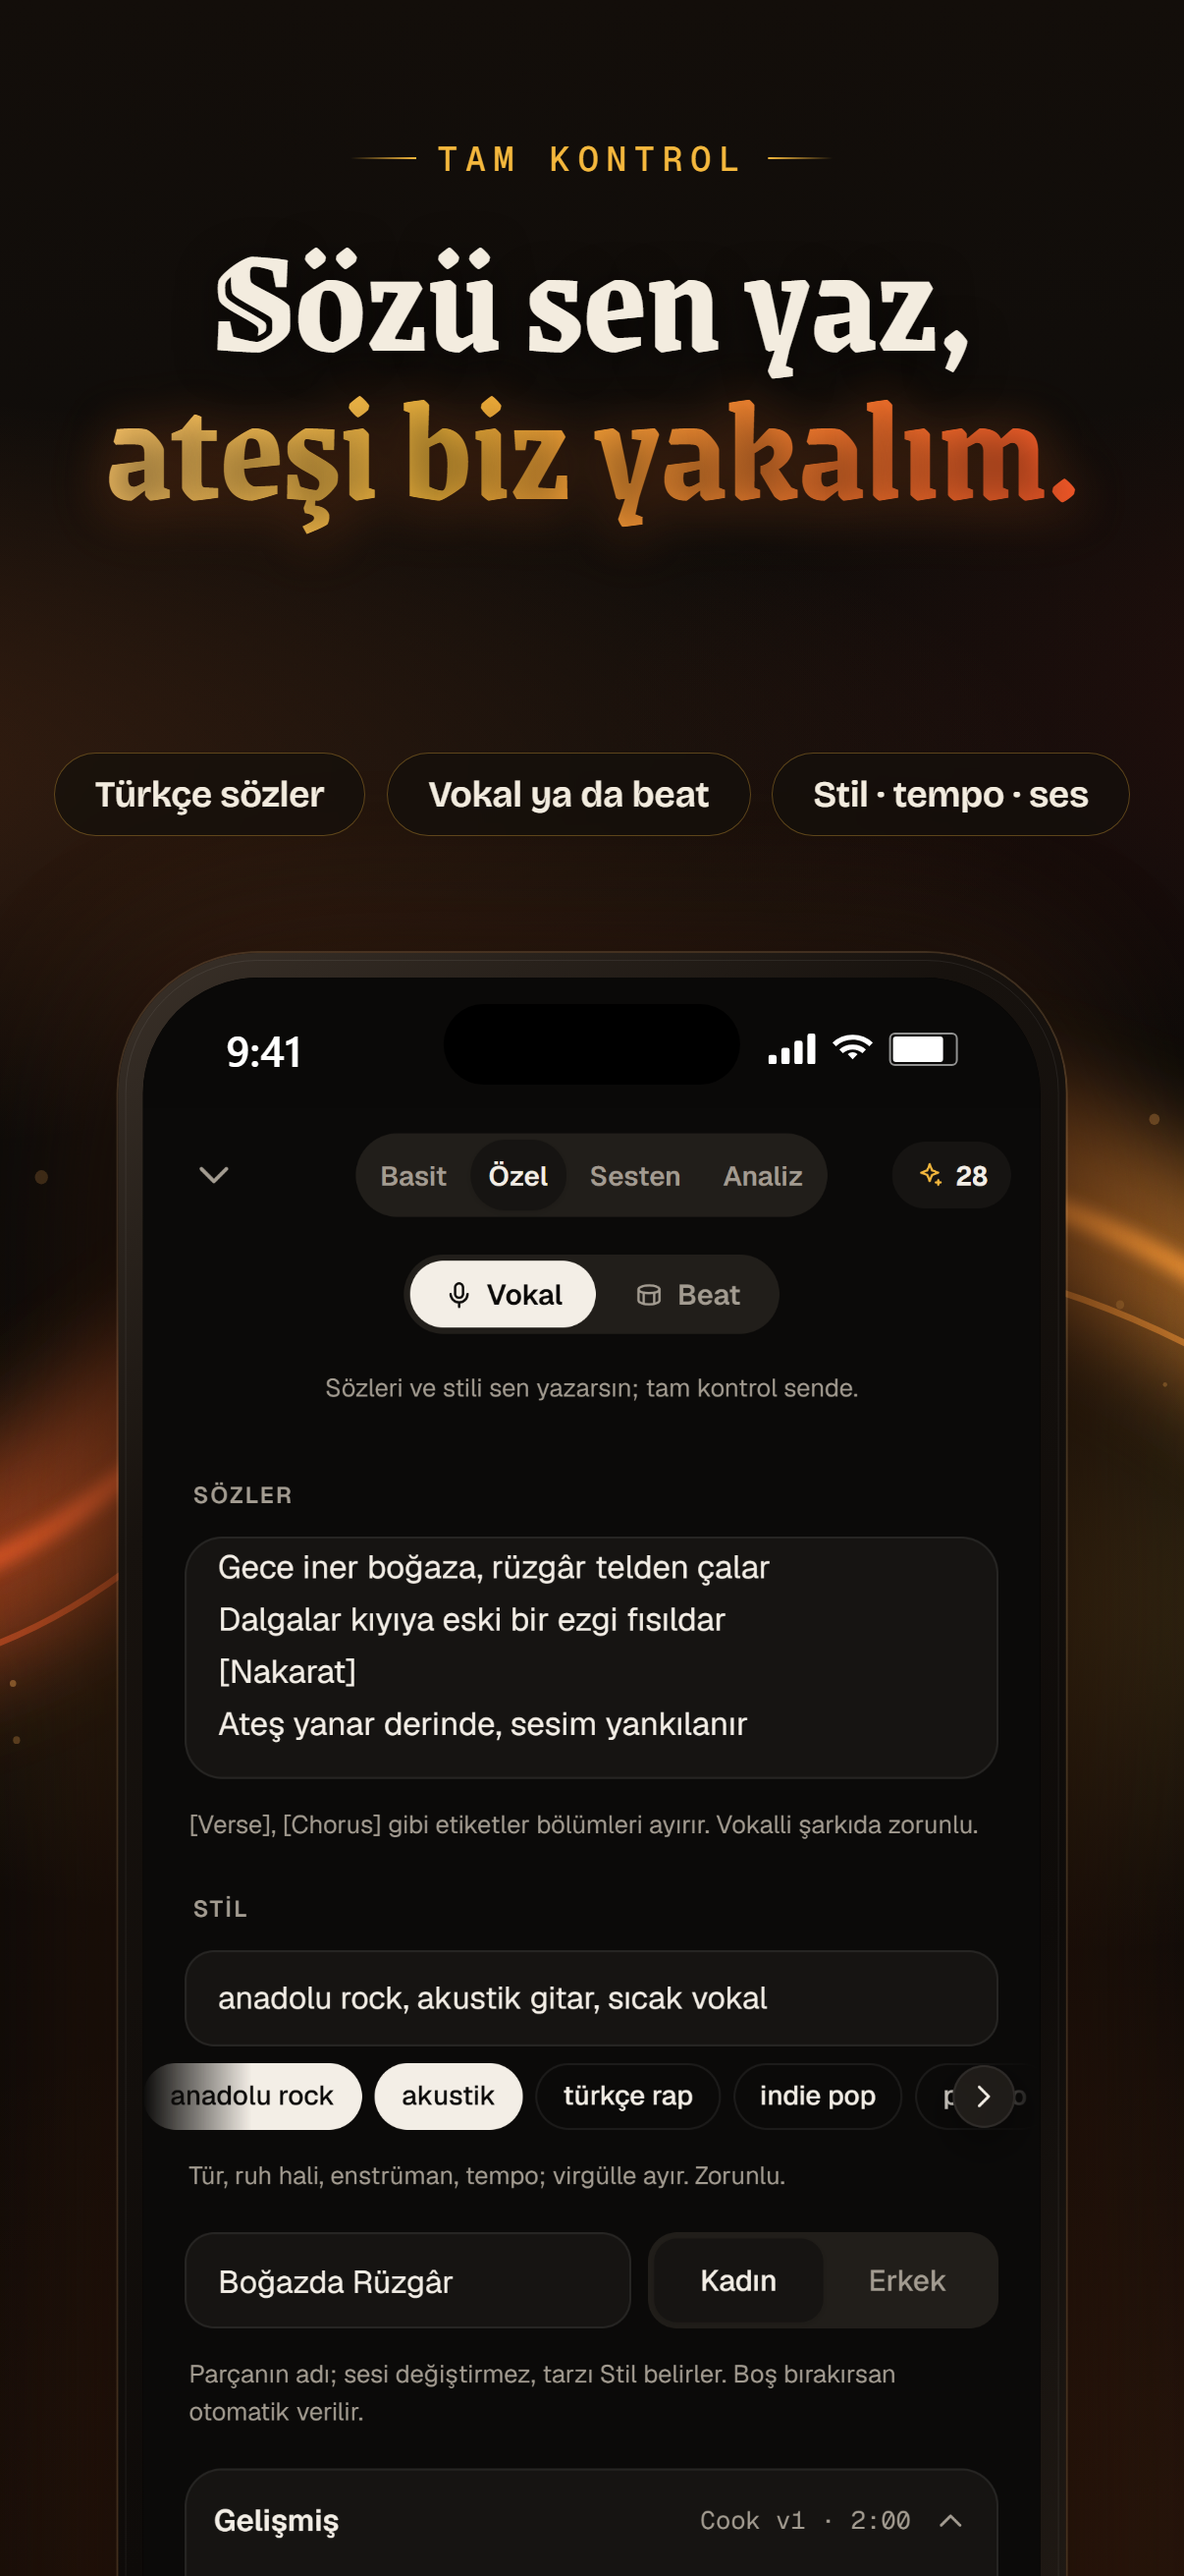
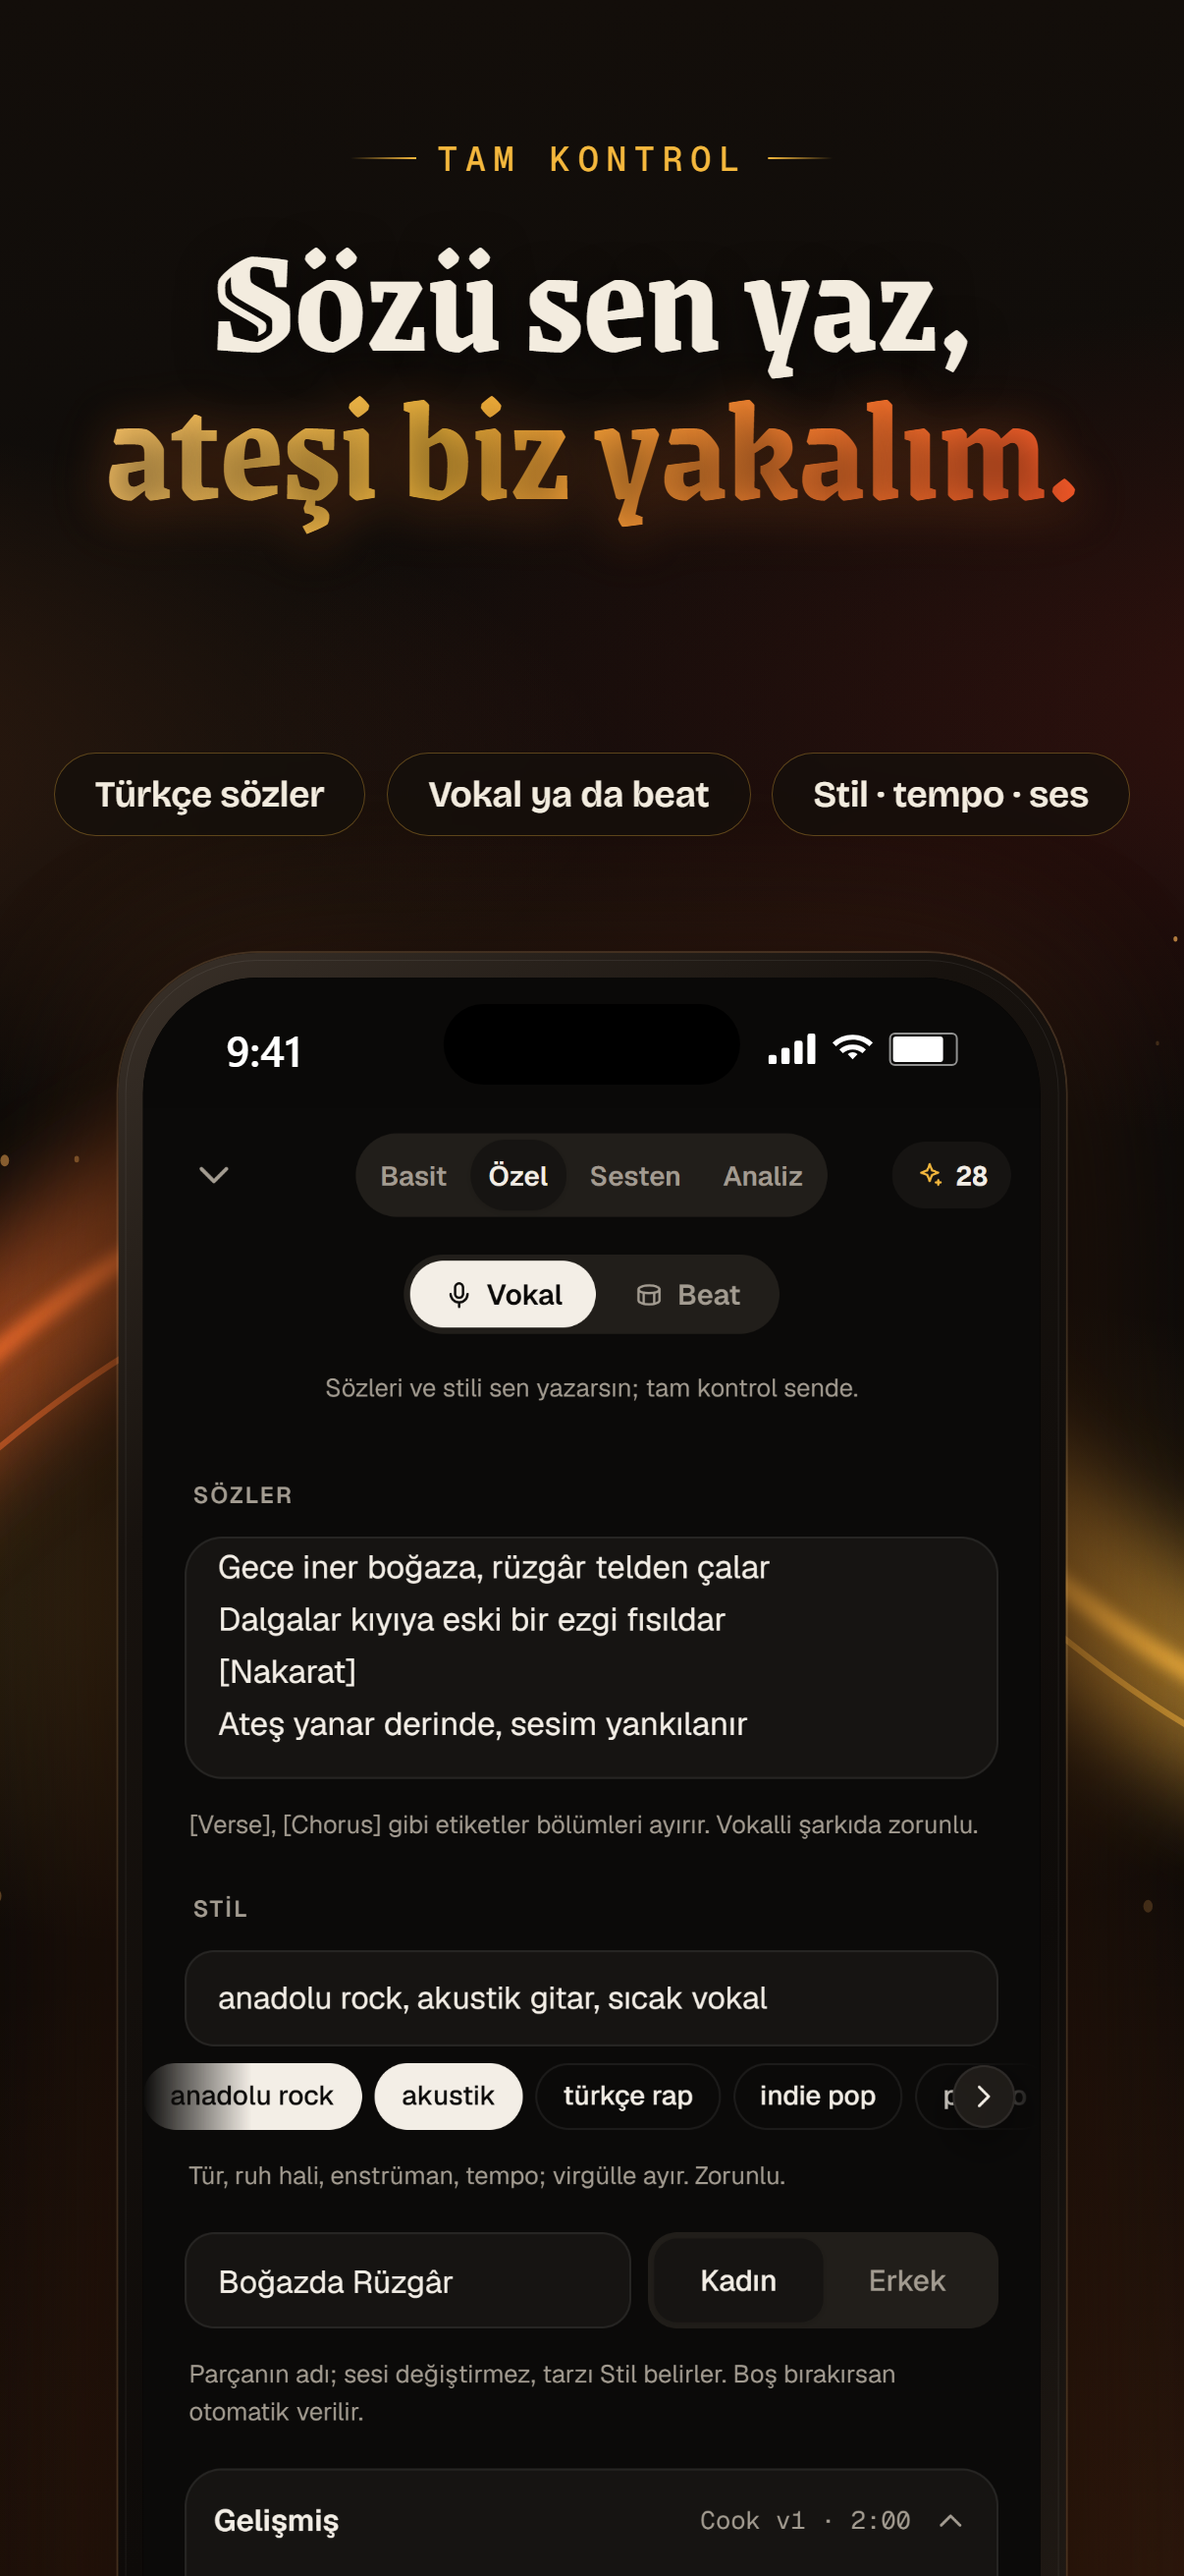
App Store carousel: mashup karesi çıkarıldı, 4 kare (panorama 4 kareye göre); 6.3" ve 6.9" alanlarına yüklendi

Changed region(s): [[0.8897, 0.4016, 1.0, 0.7105], [0.0, 0.4325, 0.1227, 0.6796]]

diff --git a/appstore-carousel/kaynak.html b/appstore-carousel/kaynak.html
@@ -1,5 +1,5 @@
 <!doctype html>
-<!-- App Store ekran görüntüleri (carousel / panorama). Tek sayfa, ?i=0..4&w=1290&h=2796 ile bir kare çizilir.
+<!-- App Store ekran görüntüleri (carousel / panorama). Tek sayfa, ?i=0..3&w=1290&h=2796 ile bir kare çizilir.
      Üret: node appstore-carousel/uret.mjs  (Chrome headless ile PNG) -->
 <html lang="tr">
 <head>
@@ -16,8 +16,8 @@
 *{margin:0;padding:0;box-sizing:border-box}
 html,body{width:var(--W);height:var(--H);overflow:hidden;background:var(--ink)}
 body{position:relative;font-family:'Bricolage',system-ui,sans-serif;color:var(--ivory)}
-/* Panorama: 5 kare genişliğinde tek zemin; her kare kendi dilimini gösterir → yan yana kesintisiz akar */
-.pano{position:absolute;top:0;left:calc(var(--i) * var(--W) * -1);width:calc(var(--W) * 5);height:var(--H);
+/* Panorama: 4 kare genişliğinde tek zemin; her kare kendi dilimini gösterir → yan yana kesintisiz akar */
+.pano{position:absolute;top:0;left:calc(var(--i) * var(--W) * -1);width:calc(var(--W) * 4);height:var(--H);
   background:
     radial-gradient(40% 22% at 10% 30%, rgba(255,122,47,.20), transparent 70%),
     radial-gradient(35% 20% at 34% 62%, rgba(245,184,61,.16), transparent 70%),
@@ -77,7 +77,7 @@ h1 em{font-style:normal;background:linear-gradient(100deg,var(--amber) 0%,var(--
 </head>
 <body>
 <div class="pano">
-  <!-- Kesintisiz alev şeridi: 5 kareyi baştan sona geçer -->
+  <!-- Kesintisiz alev şeridi: 4 kareyi baştan sona geçer -->
   <svg viewBox="0 0 5000 2000" preserveAspectRatio="none">
     <defs>
       <linearGradient id="rib" x1="0" x2="1">
@@ -131,7 +131,6 @@ const SLIDES = [
     back: "appstore-1-ozel-studyo.png", front: "appstore-4-kutuphane.png" },
   { kick: "Tam kontrol", h: "Sözü sen yaz,<br><em>ateşi biz yakalım.</em>", f: "appstore-1-ozel-studyo.png", chips: ["Türkçe sözler", "Vokal ya da beat", "Stil · tempo · ses"] },
   { kick: "Kendi sesinden", h: "Mırıldan.<br><em>Şarkı olsun.</em>", f: "appstore-3-sesten-kayit.png", chips: ["Cover", "Uzat", "Vokal ekle"] },
-  { kick: "Yalnız CookFire'da", h: "Kes, birleştir,<br><em>mashup'ını pişir.</em>", f: "appstore-2-analiz-mashup.png", chips: ["Vokal + müzik", "Kesit tekrarı", "MP3 indir"], hot: 0 },
   { kick: "Kütüphane", h: "Her şarkın<br><em>tek rafta.</em>", sub: "Dinle, beğen, paylaş; vokal ve enstrümanı ayrı ayrı indir.", f: "appstore-4-kutuphane.png" },
 ];
 

diff --git a/appstore-carousel/onizleme.html b/appstore-carousel/onizleme.html
@@ -1,2 +1,2 @@
 <!doctype html><meta charset="utf-8"><style>body{margin:0;background:#222;display:flex;gap:0}img{height:1000px;display:block}</style>
-<img src="6.9/1-sahne-senin.png"><img src="6.9/2-tam-kontrol.png"><img src="6.9/3-kendi-sesinden.png"><img src="6.9/4-mashup.png"><img src="6.9/5-kutuphane.png">
+<img src="6.9/1-sahne-senin.png"><img src="6.9/2-tam-kontrol.png"><img src="6.9/3-kendi-sesinden.png"><img src="6.9/4-kutuphane.png">
